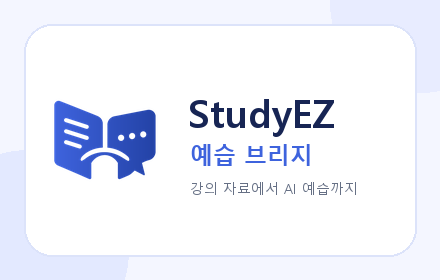
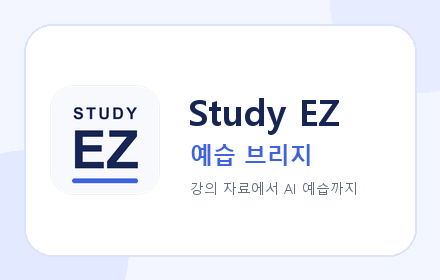
Study EZ 타이포 아이콘으로 교체한다

Changed region(s): [[0.1182, 0.3429, 0.3545, 0.6571], [0.4136, 0.3429, 0.7682, 0.4857]]

diff --git a/web/src/PrivacyPage.tsx b/web/src/PrivacyPage.tsx
@@ -5,7 +5,7 @@ export function PrivacyPage() {
     <main className="policy-page">
       <header>
         <a className="app-brand" href="/">
-          StudyEZ
+          Study EZ
         </a>
         <p>Chrome 확장 프로그램 개인정보처리방침</p>
       </header>
@@ -13,8 +13,8 @@ export function PrivacyPage() {
       <article>
         <h1>개인정보처리방침</h1>
         <p className="policy-lead">
-          StudyEZ 예습 브리지는 사용자가 선택한 강의 필기와 예습 프롬프트를 ChatGPT에 준비하고, 완성된 대화
-          링크를 해당 StudyEZ 강의에 연결하는 단일 목적으로 작동합니다.
+          Study EZ 예습 브리지는 사용자가 선택한 강의 필기와 예습 프롬프트를 ChatGPT에 준비하고, 완성된 대화
+          링크를 해당 Study EZ 강의에 연결하는 단일 목적으로 작동합니다.
         </p>
 
         <h2>처리하는 정보</h2>
@@ -28,11 +28,11 @@ export function PrivacyPage() {
         <h2>정보를 사용하는 방법</h2>
         <p>
           확장은 확인 화면에서 사용자가 동의한 뒤 PDF를 내려받아 ChatGPT의 파일 입력에 넣고 프롬프트를 채웁니다.
-          메시지 전송 버튼은 사용자가 직접 누릅니다. 대화가 완성되면 대화 주소를 StudyEZ에 돌려보내 해당 강의와
+          메시지 전송 버튼은 사용자가 직접 누릅니다. 대화가 완성되면 대화 주소를 Study EZ에 돌려보내 해당 강의와
           연결합니다.
         </p>
         <p>
-          “기본 링크” 모드에서는 ChatGPT의 공유 기능으로 공개 스냅샷을 만들고 그 주소를 StudyEZ에 저장합니다.
+          “기본 링크” 모드에서는 ChatGPT의 공유 기능으로 공개 스냅샷을 만들고 그 주소를 Study EZ에 저장합니다.
           이 공유 주소는 링크를 가진 누구나 볼 수 있습니다. “개인 링크” 모드에서는 공개 공유 주소를 만들지
           않습니다.
         </p>
@@ -40,20 +40,20 @@ export function PrivacyPage() {
         <h2>로그인 정보</h2>
         <p>
           액세스 토큰은 사용자가 이미 로그인한 <code>chatgpt.com</code>에서 대화 확인과 공유 링크 생성 요청에만
-          사용합니다. 토큰은 브라우저 메모리 밖에 저장하지 않고 StudyEZ 서버나 다른 제3자에게 전송하지 않습니다.
-          StudyEZ 계정의 이메일과 인증 정보는 Supabase가 처리하며 확장 프로그램이 읽지 않습니다.
+          사용합니다. 토큰은 브라우저 메모리 밖에 저장하지 않고 Study EZ 서버나 다른 제3자에게 전송하지 않습니다.
+          Study EZ 계정의 이메일과 인증 정보는 Supabase가 처리하며 확장 프로그램이 읽지 않습니다.
         </p>
 
         <h2>저장과 보관</h2>
         <p>
-          확장은 진행 중인 요청과 아직 StudyEZ에 저장되지 않은 링크를 Chrome의 세션 저장소에 임시로 보관합니다.
-          저장 확인 뒤 삭제되며, 브라우저 세션이 끝나면 세션 데이터도 사라집니다. StudyEZ 서버에는 강의 식별자와
+          확장은 진행 중인 요청과 아직 Study EZ에 저장되지 않은 링크를 Chrome의 세션 저장소에 임시로 보관합니다.
+          저장 확인 뒤 삭제되며, 브라우저 세션이 끝나면 세션 데이터도 사라집니다. Study EZ 서버에는 강의 식별자와
           완성된 대화·공유 주소가 계정 및 강의 기록의 일부로 보관됩니다.
         </p>
 
         <h2>제3자 제공과 판매</h2>
         <p>
-          선택한 PDF와 프롬프트는 사용자의 지시에 따라 ChatGPT로 전달됩니다. StudyEZ는 개인정보를 판매하지 않고,
+          선택한 PDF와 프롬프트는 사용자의 지시에 따라 ChatGPT로 전달됩니다. Study EZ는 개인정보를 판매하지 않고,
           맞춤 광고·신용평가·사용자 추적에 사용하지 않습니다. Chrome Web Store 사용자 데이터 정책의 Limited Use
           요건을 준수하며, 기능 제공과 보안에 필요한 범위를 넘어 데이터를 사용하거나 이전하지 않습니다.
         </p>
@@ -61,14 +61,14 @@ export function PrivacyPage() {
         <h2>사용자의 선택과 삭제</h2>
         <p>
           확인 화면에서 취소하면 PDF와 프롬프트를 ChatGPT에 넣지 않습니다. 공개 공유 링크는 ChatGPT의 공유 관리
-          화면에서 삭제할 수 있습니다. StudyEZ에 저장된 링크 삭제나 개인정보 문의는 아래 이메일로 요청할 수
+          화면에서 삭제할 수 있습니다. Study EZ에 저장된 링크 삭제나 개인정보 문의는 아래 이메일로 요청할 수
           있습니다.
         </p>
 
         <h2>권한</h2>
         <ul>
           <li><code>storage</code>: 진행 중인 요청과 전달 대기 링크를 세션 동안 보관합니다.</li>
-          <li>StudyEZ: 사용자가 누른 강의와 파일 정보를 받고 완성된 링크를 돌려줍니다.</li>
+          <li>Study EZ: 사용자가 누른 강의와 파일 정보를 받고 완성된 링크를 돌려줍니다.</li>
           <li>ChatGPT: 사용자가 확인한 PDF·프롬프트를 준비하고 대화·공유 링크를 확인합니다.</li>
           <li>Cloudflare R2: 사용자가 선택한 PDF 한 건을 임시 서명 주소로 내려받습니다.</li>
         </ul>

diff --git a/chrome-extension/chatgpt-bridge.js b/chrome-extension/chatgpt-bridge.js
@@ -32,12 +32,12 @@ function createOverlay(payload) {
       #studyez-bridge .studyez-status { min-height: 18px; margin-top: 9px; color: #3a5bc7; font-size: 11px; }
       #studyez-bridge .studyez-status.is-error { color: #9a3412; }
     </style>
-    <h2>Study_EZ 예습 자료</h2>
+    <h2>Study EZ 예습 자료</h2>
     <p>ChatGPT에 넣을 필기와 프롬프트입니다. 전송은 직접 눌러야 합니다.</p>
     <p class="studyez-disclosure">
       동의하면 선택한 PDF와 프롬프트를 ChatGPT에 넣습니다. 확장은 대화 완성과 링크를 확인하려고 현재
-      ChatGPT 로그인 토큰을 메모리에서 잠깐 사용하지만, 토큰을 저장하거나 StudyEZ로 보내지 않습니다.
-      ${shared ? "이 모드는 링크를 가진 누구나 볼 수 있는 공개 공유 링크를 만들고 StudyEZ 강의에 저장합니다." : "이 모드는 내 계정에서만 열리는 대화 주소를 StudyEZ 강의에 저장합니다."}
+      ChatGPT 로그인 토큰을 메모리에서 잠깐 사용하지만, 토큰을 저장하거나 Study EZ로 보내지 않습니다.
+      ${shared ? "이 모드는 링크를 가진 누구나 볼 수 있는 공개 공유 링크를 만들고 Study EZ 강의에 저장합니다." : "이 모드는 내 계정에서만 열리는 대화 주소를 Study EZ 강의에 저장합니다."}
       <a href="https://study-ez-open.pages.dev/privacy" target="_blank" rel="noreferrer">개인정보처리방침</a>
     </p>
     <ul>${payload.files

diff --git a/chrome-extension/store-assets/build-assets.py b/chrome-extension/store-assets/build-assets.py
@@ -1,4 +1,4 @@
-"""ImageGen 원본을 실제 투명 아이콘과 스토어 프로모션 이미지로 정리한다."""
+"""선택한 ImageGen B 시안을 정확한 스토어용 래스터 자산으로 만든다."""
 
 from pathlib import Path
 
@@ -7,48 +7,35 @@ from PIL import Image, ImageDraw, ImageFont
 
 HERE = Path(__file__).resolve().parent
 EXTENSION = HERE.parent
-RAW = HERE / "icon-source-raw.png"
 SOURCE = HERE / "icon-source.png"
 
 
-def clean_icon() -> Image.Image:
-    """원본에 구워진 밝은 체크무늬를 색상 채도 마스크로 제거한다."""
-    original = Image.open(RAW).convert("RGB")
-    pixels = original.load()
-    alpha = Image.new("L", original.size)
-    mask = alpha.load()
+def latin_font(size: int) -> ImageFont.FreeTypeFont:
+    return ImageFont.truetype("C:/Windows/Fonts/arialbd.ttf", size=size)
 
-    for y in range(original.height):
-        for x in range(original.width):
-            red, green, blue = pixels[x, y]
-            chroma = max(red, green, blue) - min(red, green, blue)
-            # 배경은 거의 무채색이고 심볼은 파란색이다. 경계의 안티앨리어싱은
-            # 18~62 사이를 부드럽게 남긴다.
-            value = max(0, min(255, round((chroma - 18) * 255 / 44)))
-            mask[x, y] = value
 
-    bounds = alpha.getbbox()
-    if not bounds:
-        raise RuntimeError("아이콘 전경을 찾지 못했습니다.")
+def centered_tracking_text(draw: ImageDraw.ImageDraw, text: str, y: int, font: ImageFont.FreeTypeFont, tracking: int) -> None:
+    widths = [draw.textlength(letter, font=font) for letter in text]
+    total = sum(widths) + tracking * (len(text) - 1)
+    x = (1024 - total) / 2
+    for letter, width in zip(text, widths):
+        draw.text((round(x), y), letter, font=font, fill="#172554", stroke_width=0)
+        x += width + tracking
 
-    alpha = alpha.crop(bounds)
-    width, height = alpha.size
-    colored = Image.new("RGBA", (width, height))
-    out = colored.load()
-    opacity = alpha.load()
-    left = (62, 99, 221)
-    right = (35, 66, 166)
-    for y in range(height):
-        for x in range(width):
-            ratio = x / max(1, width - 1)
-            rgb = tuple(round(a + (b - a) * ratio) for a, b in zip(left, right))
-            out[x, y] = (*rgb, opacity[x, y])
 
+def build_icon() -> Image.Image:
+    """B 시안의 STUDY/EZ 타이포를 글자 오류·가짜 투명 배경 없이 다시 그린다."""
     canvas = Image.new("RGBA", (1024, 1024), (0, 0, 0, 0))
-    max_width, max_height = 824, 760
-    scale = min(max_width / width, max_height / height)
-    resized = colored.resize((round(width * scale), round(height * scale)), Image.Resampling.LANCZOS)
-    canvas.alpha_composite(resized, ((1024 - resized.width) // 2, (1024 - resized.height) // 2))
+    draw = ImageDraw.Draw(canvas)
+    draw.rounded_rectangle((68, 68, 956, 956), radius=190, fill="#F8F9FC", outline="#E4E8F2", width=5)
+
+    centered_tracking_text(draw, "STUDY", 222, latin_font(132), tracking=18)
+    ez_font = latin_font(430)
+    ez_box = draw.textbbox((0, 0), "EZ", font=ez_font)
+    ez_width = ez_box[2] - ez_box[0]
+    draw.text(((1024 - ez_width) / 2, 352), "EZ", font=ez_font, fill="#172554")
+    draw.rounded_rectangle((244, 824, 780, 862), radius=19, fill="#3E63DD")
+
     canvas.save(SOURCE, optimize=True)
     return canvas
 
@@ -74,7 +61,7 @@ def build_promo(icon: Image.Image) -> None:
 
     mark = icon.resize((126, 126), Image.Resampling.LANCZOS)
     promo.paste(mark, (42, 77), mark)
-    draw.text((188, 86), "StudyEZ", font=font(38, bold=True), fill="#172554")
+    draw.text((188, 86), "Study EZ", font=font(36, bold=True), fill="#172554")
     draw.text((190, 138), "예습 브리지", font=font(23, bold=True), fill="#3E63DD")
     draw.text((190, 178), "강의 자료에서 AI 예습까지", font=font(14), fill="#667085")
     promo.save(HERE / "small-promo-440x280.png", optimize=True)
@@ -88,7 +75,7 @@ def build_store_screenshot() -> None:
     draw = ImageDraw.Draw(raw)
     # 운영 계정 이메일은 기능과 무관하므로 스토어 공개 이미지에서 가린다.
     draw.rectangle((1215, 16, 1355, 42), fill="#FAFAFC")
-    draw.text((1230, 23), "StudyEZ 사용자", font=font(11), fill="#7A7F88")
+    draw.text((1230, 23), "Study EZ 사용자", font=font(11), fill="#7A7F88")
 
     scaled = raw.resize((1280, 680), Image.Resampling.LANCZOS)
     canvas = Image.new("RGB", (1280, 800), "#F4F6FF")
@@ -96,9 +83,21 @@ def build_store_screenshot() -> None:
     canvas.save(HERE / "screenshot-calendar-1280x800.png", optimize=True)
 
 
+def update_existing_screenshot_brand() -> None:
+    path = HERE / "screenshot-calendar-1280x800.png"
+    if not path.exists():
+        return
+    screenshot = Image.open(path).convert("RGB")
+    draw = ImageDraw.Draw(screenshot)
+    draw.rectangle((1074, 73, 1196, 96), fill="#FAFAFC")
+    draw.text((1084, 78), "Study EZ 사용자", font=font(10), fill="#7A7F88")
+    screenshot.save(path, optimize=True)
+
+
 if __name__ == "__main__":
-    cleaned = clean_icon() if RAW.exists() else Image.open(SOURCE).convert("RGBA")
-    build_icons(cleaned)
-    build_promo(cleaned)
+    selected = build_icon()
+    build_icons(selected)
+    build_promo(selected)
     build_store_screenshot()
+    update_existing_screenshot_brand()
     print(f"icons + {HERE / 'small-promo-440x280.png'}")

diff --git a/chrome-extension/README.md b/chrome-extension/README.md
@@ -1,4 +1,4 @@
-# StudyEZ 예습 브리지
+# Study EZ 예습 브리지
 
 작년 필기와 예습 프롬프트를 **ChatGPT 새 대화에 직접 채우고**, 만들어진 공유
 링크를 강의에 되돌려 주는 크롬 확장입니다.
@@ -120,7 +120,7 @@ ChatGPT 계정이나 워크스페이스를 갈아탔으면 자기 대화도 안 
   달 수 없습니다.
 - 검색 노출(`is_discoverable`)은 끕니다. 링크 밖으로 새지 않습니다.
 - **전송 버튼은 사람이 직접 누릅니다.**
-- ChatGPT 액세스 토큰은 대화·공유 요청에 메모리에서만 쓰고 저장하거나 StudyEZ로
+- ChatGPT 액세스 토큰은 대화·공유 요청에 메모리에서만 쓰고 저장하거나 Study EZ로
   보내지 않습니다.
 
 ## 어느 주소에서 도는가
